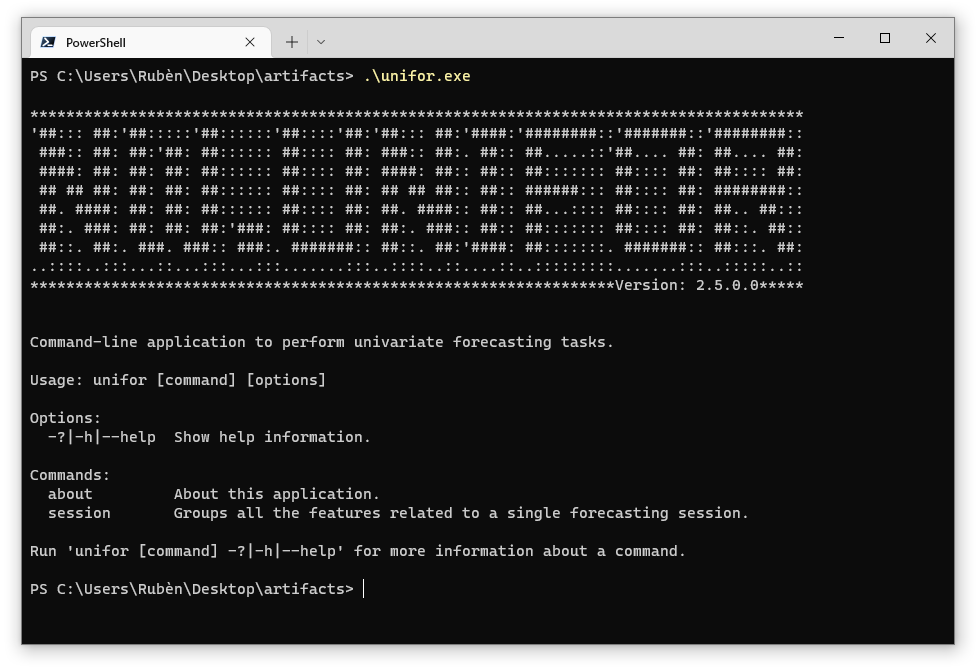
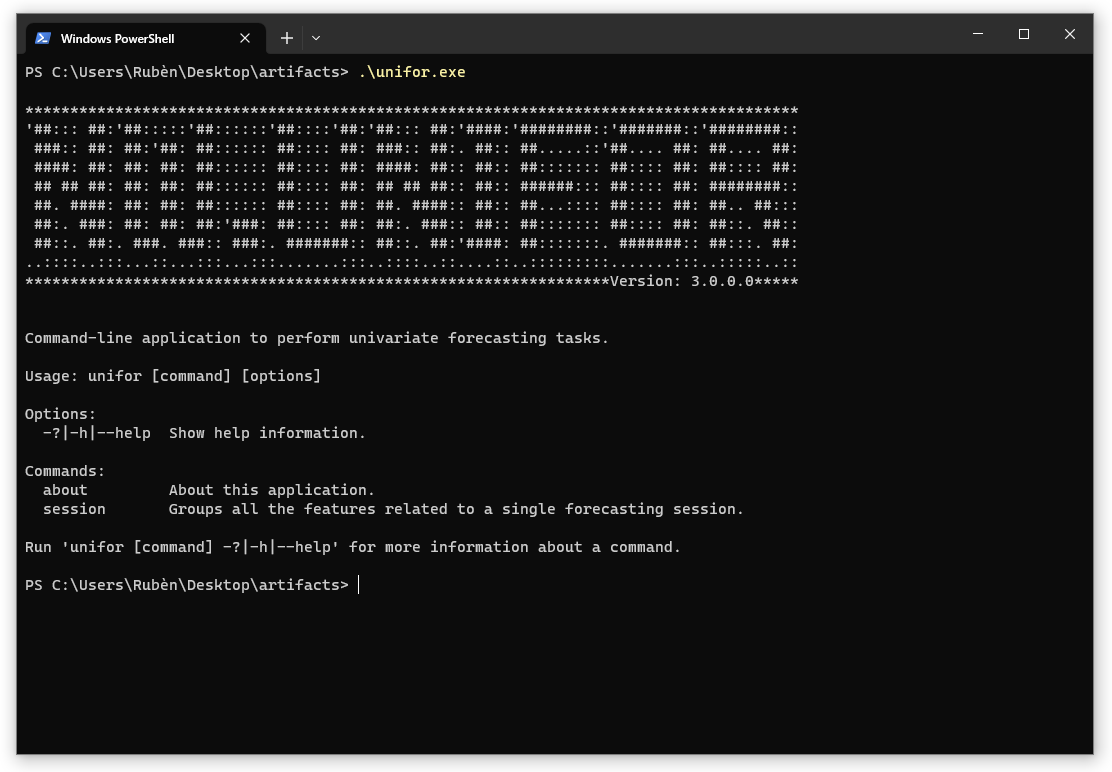
#20 Documentation-NW.UnivariateForecasting.md: updated to v3.0.0.

Changed region(s): [[0.0, 0.0, 1.0, 0.9865], [0.2456, 0.8072, 0.7062, 0.8371]]

diff --git a/docs/Documentation-NW.UnivariateForecastingClient.md b/docs/Documentation-NW.UnivariateForecastingClient.md
@@ -7,6 +7,7 @@ Contact: numbworks@gmail.com
 |---|---|---|
 | 2021-10-13 | numbworks | Created. |
 | 2023-01-22 | numbworks | Updated to v2.5.0. |
+| 2023-03-09 | numbworks | Updated to v3.0.0. |
 
 ## Introduction
 
@@ -22,6 +23,7 @@ The command-line interface for `NW.UnivariateForecastingClient` is summarized by
 |---|---|---|---|
 |about|||Success|
 |session|||Success|
+|session|forecast|--init:{filename}<br />*--folderpath:{path}*<br />*--savesession*<br />*--roundingdigits:{number}*<br />*--forecastingdenominator:{number}*|Success<br />Failure|
 
 The regular font indicates the mandatory options, while the *italic*  font indicates an optional ones.
 
@@ -46,8 +48,31 @@ To get started:
 ```powershell
 PS C:\unifor>.\unifor.exe
 PS C:\unifor>.\unifor.exe session
+PS C:\unifor>.\unifor.exe session forecast --help
 PS C:\unifor>.\unifor.exe about
 ```
+
+## Commands: session forecast
+
+![Screenrec_SessionForecast](Screenrecs/Screenrec_SessionForecast.gif)
+
+The simplest command you can run is `session forecast`, which performs a forecasting task on the values you provide. At very least, the command will look like:
+
+```powershell
+PS C:\unifor>.\unifor.exe session forecast --init:Init.json
+```
+
+The command above requires that you have the required file (`Init.json`) located in the same folder as the application, which by default it's the working folder for all the application's activities. 
+
+The command above will log something like this to the console:
+
+```
+...
+
+...
+```
+
+If you wish to store the files elsewhere, you can specify a new working folder by using the `folderpath` option - i.e. `--folderpath:C:\Documents`
 
 ## Markdown Toolset
 
